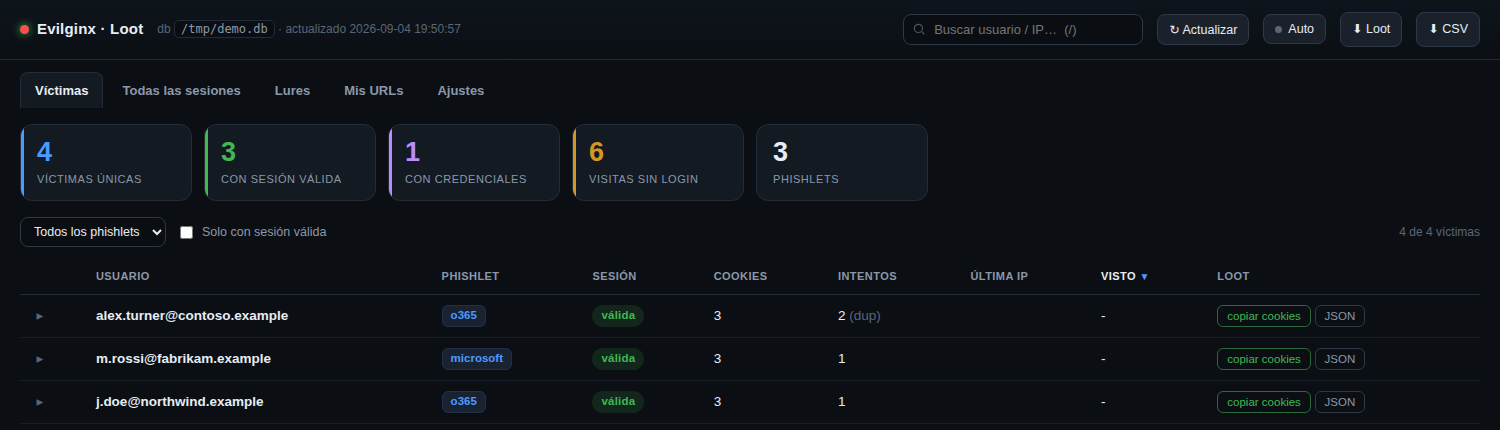
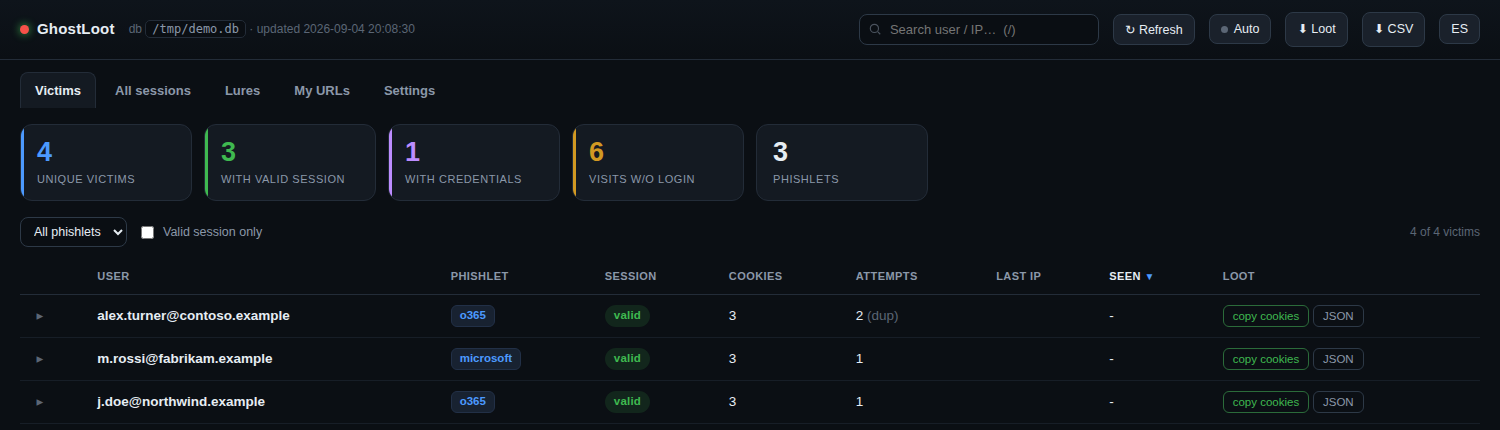
docs: English AUDIT + English screenshot

diff --git a/AUDIT.md b/AUDIT.md
@@ -1,38 +1,38 @@
-# Auditoría — Evilginx Loot Dashboard v1.0.0
+# Security Audit — GhostLoot v1.0.0
 
-Revisión completa de seguridad, robustez y producto. Se listan hallazgos,
-severidad, y estado (corregido / aceptado / pendiente).
+Full review of security, robustness and product. Findings, severity and status
+(fixed / accepted / pending).
 
-## Seguridad
+## Security
 
-| # | Hallazgo | Sev | Estado |
-|---|----------|-----|--------|
-| S1 | CSRF: los endpoints que cambian estado (`/api/settings`, `/api/urls`, `/api/vstate`, `/api/test-telegram`) no validaban origen. Una web maliciosa abierta en el mismo navegador podía, p.ej., cambiar el token de Telegram al del atacante y desviar las alertas. | Alta | **Corregido**: guard de mismo-origen (`Origin` debe coincidir con `Host` en POST/DELETE/PUT). |
-| S2 | Fail-open: escuchar fuera de localhost sin auth solo mostraba un aviso pero servía el loot igual. | Alta | **Corregido**: se niega a arrancar fuera de localhost sin `-user/-pass`, salvo `-insecure` explícito. |
-| S3 | Sin cabeceras de seguridad. | Media | **Corregido**: `X-Frame-Options: DENY`, `X-Content-Type-Options: nosniff`, `Referrer-Policy: no-referrer`, `Cache-Control: no-store`. |
-| S4 | Sin timeouts en el servidor (Slowloris). | Baja | **Corregido**: `ReadHeaderTimeout`/`ReadTimeout`/`IdleTimeout` (WriteTimeout off aposta para descargas grandes). |
-| S5 | Ficheros con secretos (settings/urls/vstate) en disco. | Info | **Aceptado**: se escriben con permisos `0600`; el token de Telegram va en claro (necesario para usarlo). Cifra el disco del server. |
-| S6 | Safe Browsing filtra tus URLs a Google. | Media | **Mitigado**: desactivado por defecto; banner de aviso al activarlo; visible en el pie del panel. |
-| S7 | El panel sirve credenciales y cookies de sesión. | Por diseño | **Aceptado**: pensado para `127.0.0.1` + túnel SSH. No exponer a internet. |
+| # | Finding | Sev | Status |
+|---|---------|-----|--------|
+| S1 | CSRF: state-changing endpoints (`/api/settings`, `/api/urls`, `/api/vstate`, `/api/test-telegram`) didn't validate origin. A malicious page open in the same browser could, e.g., change the Telegram token to the attacker's and hijack alerts. | High | **Fixed**: same-origin guard (`Origin` must match `Host` on POST/DELETE/PUT). |
+| S2 | Fail-open: listening off localhost without auth only printed a warning but still served loot. | High | **Fixed**: refuses to start off localhost without `-user/-pass`, unless `-insecure` is explicit. |
+| S3 | No security headers. | Medium | **Fixed**: `X-Frame-Options: DENY`, `X-Content-Type-Options: nosniff`, `Referrer-Policy: no-referrer`, `Cache-Control: no-store`. |
+| S4 | No server timeouts (Slowloris). | Low | **Fixed**: `ReadHeaderTimeout`/`ReadTimeout`/`IdleTimeout` (WriteTimeout intentionally off for large downloads). |
+| S5 | State files with secrets on disk. | Info | **Accepted**: written `0600`; the Telegram token is stored in clear (required to use it). Encrypt the server disk. |
+| S6 | Safe Browsing leaks your URLs to Google. | Medium | **Mitigated**: off by default; warning banner when enabled; shown in the footer. |
+| S7 | The panel serves credentials and session cookies. | By design | **Accepted**: intended for `127.0.0.1` + SSH tunnel. Do not expose to the internet. |
 
-## Robustez
+## Robustness
 
-| # | Hallazgo | Estado |
-|---|----------|--------|
-| R1 | Si Evilginx estaba escribiendo `data.db` cuando se copiaba, la recarga podía fallar y devolver 500. | **Corregido**: ante fallo de recarga se sirve la última copia buena en cache. |
-| R2 | El monitor de dominios seguía redirecciones: el root de un host de phishing redirige al sitio real, midiendo Microsoft en vez de tu host. | **Corregido**: no se siguen redirecciones; un 3xx cuenta como "alcanzable". |
-| R3 | Copia+parseo completo de `data.db` en cada petición. | **Corregido** (previo): cache por mtime; solo recarga cuando cambia. |
-| R4 | Concurrencia sobre estado compartido. | **OK**: todo protegido con mutex. |
+| # | Finding | Status |
+|---|---------|--------|
+| R1 | If Evilginx was writing `data.db` while it was being copied, a reload could fail and return 500. | **Fixed**: on reload failure it serves the last good cached snapshot. |
+| R2 | The domain monitor followed redirects: a phishing host root redirects to the real site, so it measured Microsoft instead of your host. | **Fixed**: redirects are not followed; a 3xx counts as "reachable". |
+| R3 | Full copy+parse of `data.db` on every request. | **Fixed**: mtime cache; only reloads when it changes. |
+| R4 | Concurrency over shared state. | **OK**: all mutex-guarded. |
 
-## Producto
+## Product
 
-- **Añadido** `/api/health`: Evilginx corriendo (scan de `/proc`), antigüedad de la última captura, tamaño de la DB, nº de sesiones/víctimas válidas, versión. Visible en el pie del panel y en el punto de estado.
-- **Añadido** empaquetado: servicio `systemd` (arranque automático + relanzado), `install.sh`, `Makefile`.
-- Export masivo de loot (zip), export CSV para informe, estado por víctima (usada/notas), rendimiento por lure, timeline, aviso multi-IP (posible conditional access).
+- **Added** `/api/health`: is Evilginx running (scans `/proc`), last-capture age, DB size, session/valid-victim counts, version. Shown in the footer and the status dot.
+- **Added** packaging: `systemd` service (auto-start + auto-restart), `install.sh`, `Makefile`.
+- **Added** bulk loot export (zip), masked CSV export, per-victim state (used/notes), per-lure performance, capture timeline, multi-IP warning (possible conditional access), and an EN/ES language toggle.
 
-## Riesgos residuales / pendiente
+## Residual risks / pending
 
-- **Dead-man's switch**: el monitor corre en la misma máquina; no puede avisar si el host entero cae. Requiere un vigilante externo (no incluido).
-- **GeoIP**: no incluido (su librería necesita una dependencia que el entorno de build bloquea); se puede añadir compilando en local con una base MaxMind **local** (sin llamar a terceros).
-- **Intervalos** (alertas/monitor) se configuran por flag; cambiarlos requiere reiniciar.
-- **Autenticación**: basic auth por flag. Para uso en equipo detrás de proxy, poner TLS + auth en el proxy.
+- **Dead-man's switch**: the monitor runs on the same host; it cannot alert if the host itself goes down. Requires an external watcher (not included).
+- **GeoIP**: not included (its library needs a dependency the build environment blocks); can be added by building locally with a **local** MaxMind database (no third-party calls).
+- **Intervals** (alerts/monitor) are set via flags; changing them requires a restart.
+- **Authentication**: basic auth via flag. For team use behind a proxy, put TLS + auth at the proxy.
